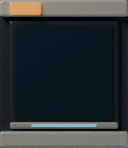
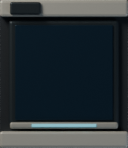
HUD: plain glass panels instead of rendered bezels, larger renders, no titles, muted shortcuts, orbit/research with the other keys, quest top right

Changed region(s): [[0.0625, 0.0, 0.3438, 0.1081]]

diff --git a/lunar-art-test/game/game.css b/lunar-art-test/game/game.css
@@ -114,7 +114,6 @@ canvas#game { transition:filter 1.2s ease; }
 body[data-region=cave] canvas#game { filter:saturate(calc(.72 - var(--cave-depth,0) * .42)) contrast(1.08); }
 
 /* Orbit button and the full-screen orbital view. */
-.game-ui .orbit-toggle { position:fixed;top:22px;right:24px;padding:11px 12px; }
 .orbit-badge { position:absolute;top:-6px;right:-6px;min-width:17px;height:17px;padding:0 4px;display:grid;place-items:center;border-radius:9px;background:#8fc4ff;color:#0b1220;font:700 10px Inter,ui-sans-serif,sans-serif; }
 .orbit-view { position:fixed;inset:0;z-index:20;background:#03050a;color:#e8ecf2; }
 .orbit-canvas { position:absolute;inset:0;width:100%;height:100%;display:block;cursor:grab; }
@@ -185,7 +184,6 @@ body[data-orbit=open] .game-ui, body[data-orbit=open] .building-status-layer { v
 .research-bar i { display:block;height:100%;background:#8fc4ff;transform-origin:left;transform:scaleX(0); }
 .research-node[data-state=done] .research-bar i { background:#edbd79; }
 .research-foot { margin:0;padding:10px 28px 18px;font-size:11px;color:#7e8a99; }
-.game-ui .research-toggle { position:fixed;top:22px;right:88px;padding:11px 12px; }
 .research-badge { position:absolute;top:-4px;right:-4px;width:10px;height:10px;border-radius:50%;background:#edbd79;box-shadow:0 0 8px #edbd79; }
 body[data-research=open] .game-ui, body[data-research=open] .building-status-layer { visibility:hidden; }
 
@@ -275,25 +273,25 @@ body[data-research=open] .game-ui, body[data-research=open] .building-status-lay
 .reticle.far { opacity:.42; }
 
 
-/* Console kit: every panel, key and gauge is a Blender render (assets/ui, built by blender/build_ui_kit.py).
-   Bezels, keys, LCD glass and work-order tags are 9-sliced; the item and building art sits on top. */
-.game-ui { --ink:#2b2f33;--lcd:#8fe6ff;--mono:ui-monospace,"SF Mono",Menlo,monospace; }
-.resource-bar { top:14px;left:16px;gap:10px;padding:2px 4px;border:14px solid transparent;border-image:url(assets/ui/kit/bezel.png) 48 fill / 14px;border-radius:0;background:none;backdrop-filter:none;filter:drop-shadow(0 4px 10px #0008); }
-.readout { gap:3px!important; }
-.readout-art { width:34px;height:34px;object-fit:contain;filter:drop-shadow(0 2px 2px #000a); }
-.lcd { display:inline-flex;align-items:baseline;gap:4px;min-width:50px;padding:1px 4px;border:7px solid transparent;border-image:url(assets/ui/kit/lcd.png) 24 fill / 7px;font:600 13px/1 var(--mono);color:var(--lcd);text-shadow:0 0 6px #4fd2ff88; }
+/* Console kit: the icons, gauges, rack trays and work-order tag are Blender renders (assets/ui, built by
+   blender/build_ui_kit.py), set on plain dark glass panels. */
+.game-ui { --ink:#2b2f33;--lcd:#8fe6ff;--mono:ui-monospace,"SF Mono",Menlo,monospace;--glass:rgba(14,18,22,.66); }
+.resource-bar { top:14px;left:16px;max-width:calc(100% - 380px);gap:12px;padding:6px 14px 6px 8px;border:0;border-radius:12px;background:var(--glass);backdrop-filter:blur(8px); }
+.readout { gap:4px!important; }
+.readout-art { width:46px;height:46px;margin:-4px 0;object-fit:contain;filter:drop-shadow(0 2px 3px #000a); }
+.lcd { display:inline-flex;align-items:baseline;gap:4px;font:600 14px/1 var(--mono);color:var(--lcd);text-shadow:0 0 6px #4fd2ff88; }
 .resource-bar .lcd strong { color:inherit;font:inherit; }
-.resource-bar .lcd small { font-size:9px;color:#5fb7cf; }
+.resource-bar .lcd small { font-size:10px;color:#5fb7cf; }
 .power-resource { color:inherit!important; }
 .power-resource.insufficient .lcd { color:#ff9a6e;text-shadow:0 0 6px #ff6a3288; }
-.health-resource strong,.food-resource strong { min-width:34px;font:600 11px var(--mono)!important;color:#d9dccf!important; }
+.health-resource strong,.food-resource strong { min-width:36px;font:600 12px var(--mono)!important;color:#d9dccf!important; }
 .plates { display:inline-flex;gap:1px; }
-.plates i { width:17px;height:20px;background:url(assets/ui/kit/plate.png) center/contain no-repeat; }
+.plates i { width:20px;height:24px;background:url(assets/ui/kit/plate.png) center/contain no-repeat; }
 .plates i[data-state=cracked] { background-image:url(assets/ui/kit/plate-cracked.png); }
 .plates i[data-state=empty] { background-image:url(assets/ui/kit/plate-empty.png); }
 .health-resource[data-tone=critical] .plates i:not([data-state=empty]) { animation:gauge-warn .55s ease-in-out infinite alternate; }
 .health-resource[data-tone=critical] strong { color:#ff8a70!important; }
-.tube { position:relative;width:96px;height:21px;background:url(assets/ui/kit/tube-empty.png) center/100% 100% no-repeat; }
+.tube { position:relative;width:112px;height:25px;background:url(assets/ui/kit/tube-empty.png) center/100% 100% no-repeat; }
 .tube i { position:absolute;inset:0;background:url(assets/ui/kit/tube-full.png) center/100% 100% no-repeat;transition:clip-path .3s; }
 .food-resource[data-tone=hungry] .tube i { filter:hue-rotate(-50deg) saturate(1.4); }
 .food-resource[data-tone=starving] .tube { animation:gauge-warn .55s ease-in-out infinite alternate; }
@@ -301,58 +299,53 @@ body[data-research=open] .game-ui, body[data-research=open] .building-status-lay
 .food-resource[data-tone=starving] strong { color:#ff9a7e!important; }
 @keyframes gauge-warn { to { filter:brightness(1.35) sepia(.6) saturate(2.4) hue-rotate(-25deg); } }
 
-.game-ui .build-toggle { gap:6px;min-height:0;padding:0 6px 0 0;border:12px solid transparent;border-image:url(assets/ui/kit/key.png) 40 fill / 12px;border-radius:0;background:none;box-shadow:none;color:#e9e6dc;filter:drop-shadow(0 4px 8px #0008);transition:transform .08s,filter .12s; }
-.game-ui .build-toggle:hover { background:none;border-color:transparent;filter:drop-shadow(0 4px 8px #0008) brightness(1.1); }
+.game-ui .build-toggle,.game-ui .robots-toggle { position:relative;gap:0;padding:4px;border:0;border-radius:12px;background:var(--glass);box-shadow:none;backdrop-filter:blur(8px);transition:transform .08s,background .12s; }
+.game-ui .build-toggle:hover { background:rgba(40,48,54,.8);border-color:transparent; }
 .game-ui .build-toggle:active { transform:translateY(1px); }
-.game-ui .build-toggle[aria-expanded=true] { border-image-source:url(assets/ui/kit/key-on.png); }
-.game-ui .robots-toggle,.game-ui .orbit-toggle,.game-ui .research-toggle { padding:0 2px 0 0;gap:2px; }
-.game-ui .orbit-toggle { top:14px;right:16px; }
-.game-ui .research-toggle { top:14px;right:92px; }
-.key-art { width:40px;height:40px;margin:-6px -2px -6px -6px;object-fit:contain;filter:drop-shadow(0 2px 2px #000a); }
-.game-ui .build-toggle kbd { border:0;border-radius:2px;background:#b9501c;color:#fff1e2;box-shadow:inset 0 -1px 0 #0005; }
-.build-menu,.robots-panel { border:14px solid transparent;border-image:url(assets/ui/kit/bezel.png) 48 fill / 14px;border-radius:0;background:none;backdrop-filter:none;filter:drop-shadow(0 6px 18px #0009);box-shadow:none; }
-.build-art { width:36px;height:36px;margin:-6px 0;flex-shrink:0;object-fit:contain;filter:drop-shadow(0 2px 2px #0008); }
+.game-ui .build-toggle[aria-expanded=true] { background:rgba(34,48,56,.86);box-shadow:inset 0 0 0 1.5px #7fe3ff77; }
+.key-art { width:54px;height:54px;object-fit:contain;filter:drop-shadow(0 3px 3px #000a); }
+.game-ui .build-toggle kbd { position:absolute;right:4px;bottom:4px;min-width:16px;height:16px;margin:0;border:1px solid #ffffff26;border-radius:3px;background:#0b0f12cc;color:#b9c2c5;font-size:9px; }
+.build-menu,.robots-panel { border:0;border-radius:12px;background:rgba(14,18,22,.88);box-shadow:0 6px 30px #0006; }
+.build-art { width:46px;height:46px;margin:-8px -2px;flex-shrink:0;object-fit:contain;filter:drop-shadow(0 2px 2px #0008); }
 .build-item.locked kbd img { width:16px;height:16px;object-fit:contain; }
 .build-item.locked .build-art { filter:grayscale(1) brightness(.7); }
 
-.objective { position:absolute;top:92px;left:16px;width:min(360px,calc(100% - 32px)); }
+.objective { position:absolute;top:14px;right:16px;left:auto;width:min(340px,calc(100% - 32px)); }
 .buffs { top:84px;left:16px; }
-.buffs:not(:empty) ~ .objective { top:118px; }
-.comms { display:flex;align-items:flex-start;gap:6px; }
-.game-ui .comms-unit { flex:none;width:52px;height:52px;padding:0;border:0;background:none;filter:drop-shadow(0 3px 5px #0009); }
+.comms { display:flex;flex-direction:row-reverse;align-items:flex-start;gap:6px; }
+.game-ui .comms-unit { flex:none;width:64px;height:64px;padding:0;border:0;background:none;filter:drop-shadow(0 3px 5px #0009); }
 .game-ui .comms-unit:hover { background:none;filter:drop-shadow(0 3px 5px #0009) brightness(1.12); }
 .comms-unit img { display:block;width:100%;height:100%; }
-.objective-message { margin:4px 0 0;padding:6px 8px;max-height:12em;overflow:hidden;border:7px solid transparent;border-image:url(assets/ui/kit/lcd.png) 24 fill / 7px;font:500 12px/1.45 var(--mono);color:var(--lcd);text-shadow:0 0 6px #4fd2ff55;transition:opacity .45s,max-height .45s,padding .45s,border-width .45s; }
-.objective-message:empty,.objective.tucked .objective-message { opacity:0;max-height:0;padding-top:0;padding-bottom:0;border-top-width:0;border-bottom-width:0; }
+.objective-message { flex:1;margin:6px 0 0;padding:9px 12px;max-height:12em;overflow:hidden;border-radius:10px;background:var(--glass);backdrop-filter:blur(8px);font:500 12px/1.45 var(--mono);color:var(--lcd);text-shadow:0 0 6px #4fd2ff55;transition:opacity .45s,max-height .45s,padding .45s; }
+.objective-message:empty,.objective.tucked .objective-message { opacity:0;max-height:0;padding-top:0;padding-bottom:0; }
 .objective.aside .objective-message { color:#ffd9a0;text-shadow:0 0 6px #ffb45a55; }
 .objective.fresh .comms-unit { animation:comms-call .45s 6 alternate; }
 @keyframes comms-call { to { filter:drop-shadow(0 0 10px #7fe3ffcc) brightness(1.25); } }
-.work-order { display:flex;align-items:center;gap:8px;margin:6px 0 0 14px;padding:0 8px 0 2px;border-style:solid;border-color:transparent;border-width:9px 9px 9px 42px;border-image:url(assets/ui/kit/tag.png) 24 24 24 112 fill / 9px 9px 9px 42px;color:var(--ink);filter:drop-shadow(0 4px 8px #0008);transform-origin:-26px 50%; }
+.work-order { display:flex;align-items:center;gap:10px;margin:6px 0 0;padding:0 8px 0 2px;border-style:solid;border-color:transparent;border-width:9px 9px 9px 42px;border-image:url(assets/ui/kit/tag.png) 24 24 24 112 fill / 9px 9px 9px 42px;color:var(--ink);filter:drop-shadow(0 4px 8px #0008);transform-origin:-26px 50%; }
 .objective.fresh .work-order { animation:tag-swing 1.3s ease-out; }
 @keyframes tag-swing { 0% { transform:rotate(-7deg); } 30% { transform:rotate(4deg); } 60% { transform:rotate(-2deg); } 100% { transform:none; } }
-.order-art { width:50px;height:50px;margin:-6px 0;flex:none;object-fit:contain;filter:drop-shadow(0 2px 2px #0006); }
-.order-body { flex:1;display:grid;gap:2px;min-width:0;padding:5px 0; }
-.order-head { display:flex;justify-content:space-between;font:700 9px Inter,ui-sans-serif,sans-serif;letter-spacing:.14em;text-transform:uppercase;color:#a6471a; }
-.objective-step { color:#4c5154;font-variant-numeric:tabular-nums; }
+.order-art { width:64px;height:64px;margin:-10px 0;flex:none;object-fit:contain;filter:drop-shadow(0 2px 2px #0006); }
+.order-body { flex:1;display:grid;gap:3px;min-width:0;padding:6px 0; }
 .objective-task { font:700 13px/1.25 Inter,ui-sans-serif,sans-serif;color:var(--ink); }
 .order-foot { display:flex;align-items:center;gap:8px; }
-.order-foot:has(.pips:empty):has(.objective-distance:empty) { display:none; }
 .pips { display:inline-flex;gap:1px; }
 .pips i { width:14px;height:14px;background:url(assets/ui/kit/pip-off.png) center/contain no-repeat; }
 .pips i.on { background-image:url(assets/ui/kit/pip-on.png); }
 .objective-distance { font:600 11px var(--mono);color:#2a6c84; }
+.objective-step { margin-left:auto;font:600 10px var(--mono);color:#4c5154;font-variant-numeric:tabular-nums; }
 .objective.complete .order-art { filter:drop-shadow(0 2px 2px #0006) saturate(.5); }
-@media(max-width:600px) { .objective { top:84px;left:12px;width:calc(100% - 24px); } .objective-message { font-size:11px; } }
+@media(max-width:600px) { .objective { top:auto;bottom:110px;right:12px;width:calc(100% - 24px); } .objective-message { font-size:11px; } }
 
 .hotbar { gap:0;padding:0;border:0;border-radius:0;background:none;backdrop-filter:none;align-items:flex-end;filter:drop-shadow(0 5px 10px #0009); }
-.hotbar::before,.hotbar::after { content:'';width:16px;height:67px;background:url(assets/ui/kit/rail-end.png) center/100% 100% no-repeat; }
+.hotbar::before,.hotbar::after { content:'';width:17px;height:74px;background:url(assets/ui/kit/rail-end.png) center/100% 100% no-repeat; }
 .hotbar::after { transform:scaleX(-1); }
-.game-ui .hotbar .slot,.game-ui .hotbar .slot:hover,.game-ui.crate-open .hotbar .slot:hover { width:58px;height:67px;border:0;border-radius:0;background:url(assets/ui/kit/tray.png) center/100% 100% no-repeat;transition:transform .14s ease-out; }
+.game-ui .hotbar .slot,.game-ui .hotbar .slot:hover,.game-ui.crate-open .hotbar .slot:hover { width:64px;height:74px;border:0;border-radius:0;background:url(assets/ui/kit/tray.png) center/100% 100% no-repeat;transition:transform .14s ease-out; }
 .game-ui .hotbar .slot.selected,.game-ui .hotbar .slot.selected:hover { background-image:url(assets/ui/kit/tray-on.png);transform:translateY(-7px); }
 .game-ui .hotbar .slot:hover { filter:brightness(1.1); }
 .game-ui .hotbar .slot.drop-target { filter:brightness(1.2);box-shadow:none; }
-.hotbar .slot kbd { left:7px;top:2px;font:800 8px Inter,ui-sans-serif,sans-serif;color:#3a1606;text-shadow:none; }
-.hotbar .slot.selected kbd { color:#fff4e4; }
-.hotbar .slot-icon { inset:11px 8px 13px; }
+.hotbar .slot kbd { left:9px;top:3px;font:700 9px Inter,ui-sans-serif,sans-serif;color:#aeb7ba;text-shadow:none; }
+.hotbar .slot.selected kbd { color:#bff0ff; }
+.hotbar .slot-icon { inset:10px 7px 13px; }
 .hotbar .slot strong { right:8px;bottom:12px; }
+@media(max-width:1320px) { .game-ui .hotbar .slot,.game-ui .hotbar .slot:hover { width:54px;height:62px; } .hotbar::before,.hotbar::after { height:62px;width:14px; } }
 @media(max-width:900px) { .game-ui .hotbar .slot,.game-ui .hotbar .slot:hover { width:46px;height:53px; } .hotbar::before,.hotbar::after { height:53px;width:13px; } }

diff --git a/lunar-art-test/game/ui.js b/lunar-art-test/game/ui.js
@@ -38,8 +38,8 @@ export function createUI(root, callbacks = {}) {
   root.classList.add('game-ui');
   root.innerHTML = `
     <div class="resource-bar" aria-label="Colony resources">
-      <span class="readout" title="Oxygen reserve: fills rooms; vented from regolith processing">${pic('icons/oxygen', 'readout-art')}<span class="lcd"><small>O₂</small><strong data-value="oxygen">0</strong></span></span>
-      <span class="readout" title="Water reserve: grow beds drink it; recyclers reclaim it">${pic('icons/water', 'readout-art')}<span class="lcd"><small>H₂O</small><strong data-value="water">0</strong></span></span>
+      <span class="readout" title="Oxygen reserve: fills rooms; vented from regolith processing">${pic('icons/oxygen', 'readout-art')}<span class="lcd"><strong data-value="oxygen">0</strong></span></span>
+      <span class="readout" title="Water reserve: grow beds drink it; recyclers reclaim it">${pic('icons/water', 'readout-art')}<span class="lcd"><strong data-value="water">0</strong></span></span>
       <span class="readout power-resource" title="Power generation / demand">${pic('icons/power', 'readout-art')}<span class="lcd"><strong data-value="power">0</strong><small>kW</small></span></span>
       <span class="readout" title="Battery charge">${pic('icons/battery', 'readout-art')}<span class="lcd"><strong data-value="battery">0 / 0</strong><small>kJ</small></span></span>
       <span class="readout health-resource" title="Suit integrity. Vents and toxic pools wear it down; it recovers on the surface. At zero you black out.">${pic('icons/suit', 'readout-art')}<span class="plates">${'<i data-state="whole"></i>'.repeat(PLATES)}</span><strong data-value="health">100%</strong></span>
@@ -54,9 +54,8 @@ export function createUI(root, callbacks = {}) {
       <div class="work-order">
         <img class="order-art" alt="" aria-hidden="true" draggable="false">
         <div class="order-body">
-          <small class="order-head"><span>Work order</span><span class="objective-step"></span></small>
           <strong class="objective-task"></strong>
-          <span class="order-foot"><span class="pips"></span><small class="objective-distance"></small></span>
+          <span class="order-foot"><span class="pips"></span><small class="objective-distance"></small><small class="objective-step"></small></span>
         </div>
       </div>
     </section>
@@ -70,7 +69,7 @@ export function createUI(root, callbacks = {}) {
         ${GROUPS.map(([title, types]) => `<h3>${title}</h3>${types.map(type => { const def = TOOLS[type]; return `<button type="button" class="build-item" data-build="${type}" aria-pressed="false" title="${def.description}${def.cost ? ` · ${costText(def)}` : ''}">${pic(`build/${type}`, 'build-art')}<span>${def.name}</span><kbd>${def.key?.toUpperCase() ?? ''}</kbd></button>`; }).join('')}`).join('')}
       </div>
       <div class="robots-panel" aria-label="Robots" hidden></div>
-      <button type="button" class="build-toggle" data-action="build" aria-expanded="false" aria-controls="build-menu">${pic('icons/build', 'key-art')}<span>Build</span><kbd>B</kbd></button>
+      <button type="button" class="build-toggle" data-action="build" aria-label="Build" title="Build (B)" aria-expanded="false" aria-controls="build-menu">${pic('icons/build', 'key-art')}<kbd>B</kbd></button>
       <button type="button" class="build-toggle robots-toggle" data-action="robots" aria-expanded="false" aria-label="Robots" title="Robots (G)">${pic('icons/robots', 'key-art')}<kbd>G</kbd></button>
       <button type="button" class="build-toggle robots-toggle stock-toggle" data-action="stock" aria-expanded="false" aria-label="Base stock" title="Base stock (I)">${pic('icons/stock', 'key-art')}<kbd>I</kbd></button>
       <button type="button" class="build-toggle robots-toggle orbit-toggle" data-action="orbit" aria-label="Orbit" title="Orbit (O)">${pic('icons/orbit', 'key-art')}<kbd>O</kbd><b class="orbit-badge" hidden></b></button>

diff --git a/lunar-art-test/game/blender/build_ui_kit.py b/lunar-art-test/game/blender/build_ui_kit.py
@@ -313,7 +313,7 @@ def tray(lit):
         box('Rack / tray floor', (0, .01, .03), (.76, .74, .01), p['navy'], .04)
         box('Rack / tray lip', (0, -.4, .05), (.84, .05, .05), p['ivory_shade'], .015)
         box('Rack / lip lamp', (0, -.4, .078), (.5, .022, .008), p['cyan' if lit else 'cyan_off'], .004)
-        box('Rack / number tab', (-.3, .51, .085), (.24, .1, .03), p['amber_lit' if lit else 'orange'], .015)
+        box('Rack / number tab', (-.3, .51, .085), (.24, .1, .03), p['dark'], .015)
     return build
 
 
